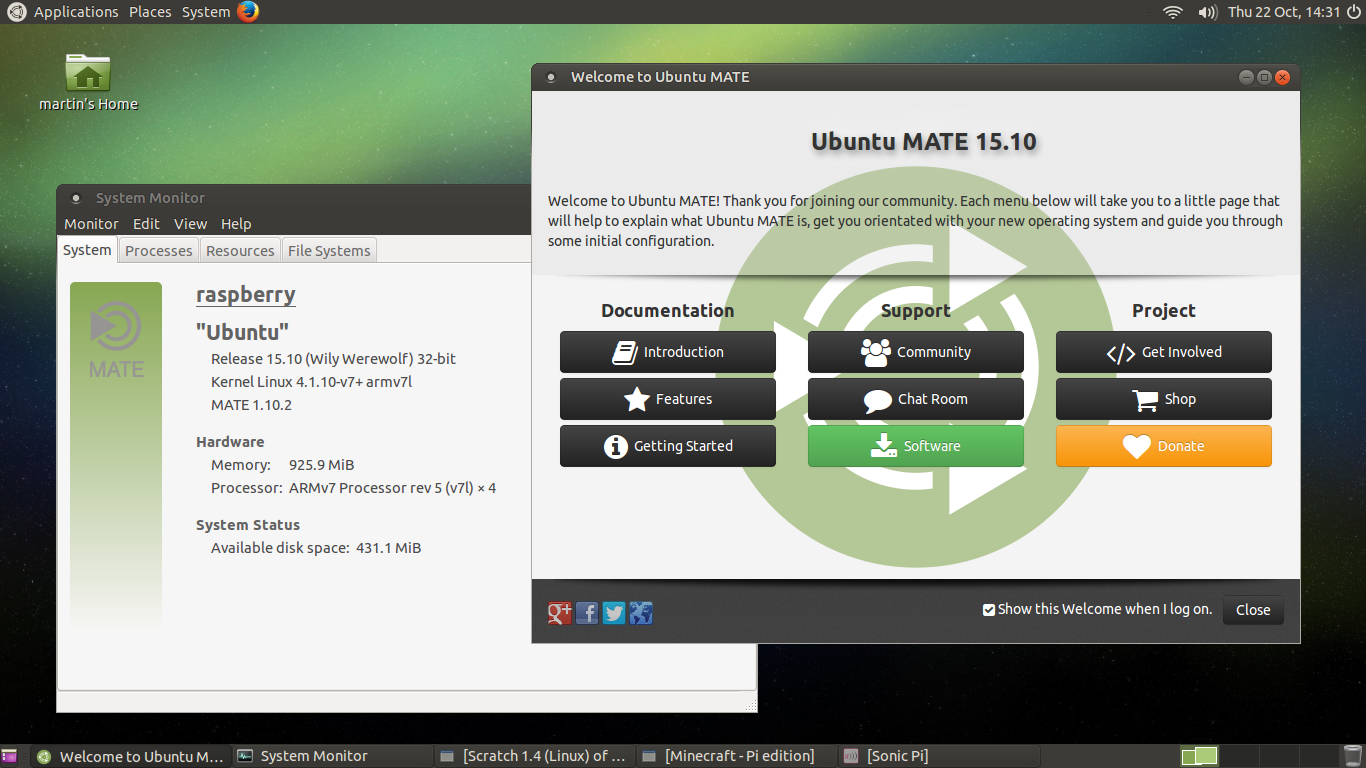
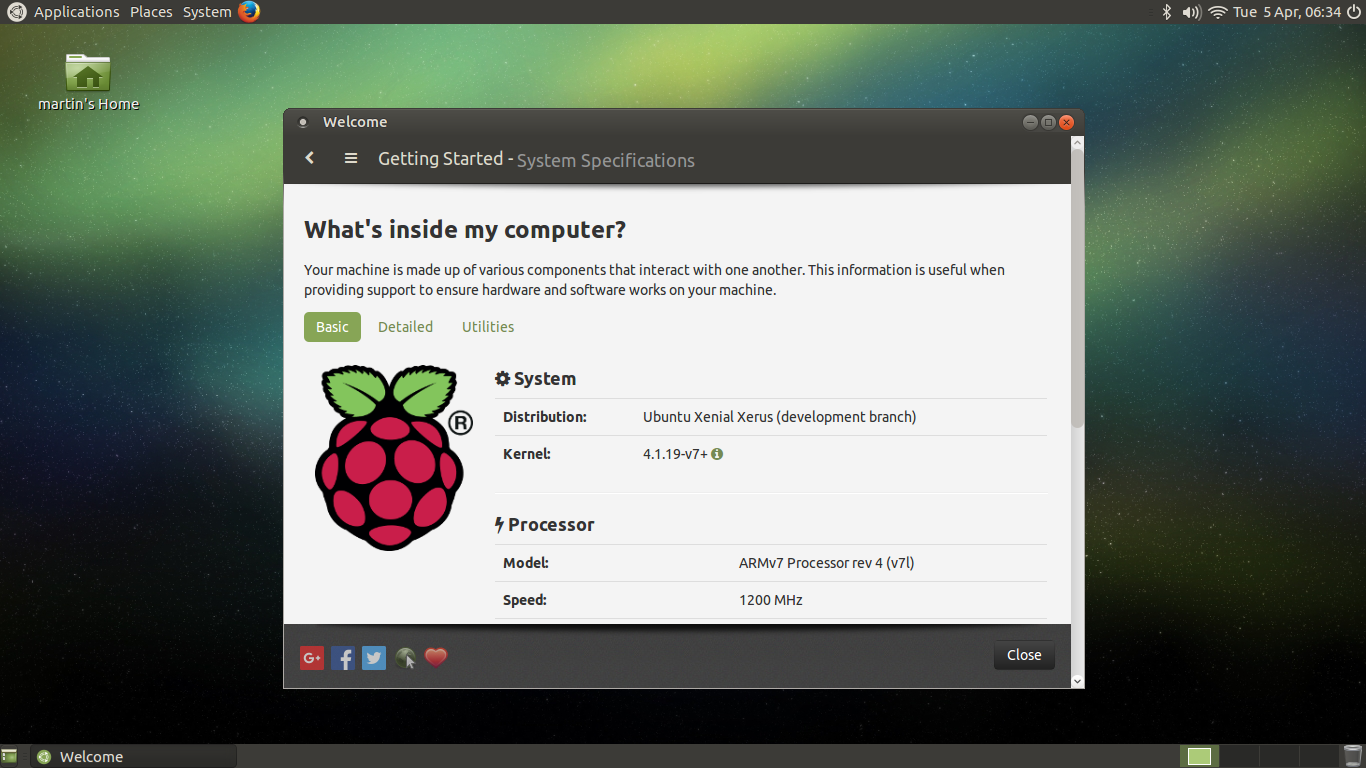
Update Raspberry Pi page.

diff --git a/pages/raspberry-pi.md b/pages/raspberry-pi.md
@@ -4,7 +4,7 @@
 .. date: 2015-04-21 23:01:09 UTC
 .. tags: Ubuntu,MATE,Raspberry Pi,Raspberry Pi 2,Raspberry Pi 3,download,armhf,arm64,ARMv7,ARMv8
 .. link: 
-.. description: Ubuntu MATE 15.10 for the Raspberry Pi 2 and Raspbbery Pi 3
+.. description: Ubuntu MATE 16.04 for the Raspberry Pi 2 and Raspbbery Pi 3
 .. type: text
 .. author: Martin Wimpress
 -->
@@ -24,13 +24,14 @@ LibreOffice, which in fact is a joy to use :-) But the microSDHC I/O
 throughput is a bottleneck so **we recommend that you use a Class 6 or
 Class 10 microSDHC** card.
 
-**The images support the integrated Wifi on the Raspberry Pi 3, but
-support for the integrated Raspberry Pi 3 Bluetooth is incomplete.
-We hope to have that sorted soon.**
-
 You'll need a microSD card which is 4GB or greater to fit the image.
 The file system can be resized to occupy the unallocated space of the
-microSD card, similar to Raspbian.
+microSD card, **on Ubuntu MATE 16.04 this can be done via Ubuntu MATE
+Welcome**.
+
+**Ubuntu MATE 16.04 has working Bluetooth and Wifi work on the Raspberry
+Pi 3**, but *Ubuntu MATE 15.10 only has working Wifi* for the Raspberry
+Pi 3.
 
 **NOTE! There are no predefined user accounts**. The first time you
 boot one of the desktop images it will run through a setup wizard where
@@ -40,7 +41,7 @@ configuration is complete, subsequent boots are much quicker.
 
 <div align="center">
   <img src="/gallery/Screenshots/09_RASPBERRY.png" /></a><br />
-  <b>Ubuntu MATE 15.10 running on the Raspberry Pi 2.</b>
+  <b>Ubuntu MATE 16.04 running on the Raspberry Pi 3.</b>
 </div>
 <br />
 
@@ -55,12 +56,12 @@ configuration is complete, subsequent boots are much quicker.
 
 ## Download
 
-A pre-built image of Ubuntu MATE 15.10.1 for the Raspberry Pi 2 and
-Raspberry Pi 3 is available via BitTorrent and direct download. If you
-can spare the bytes, please download via BitTorrent and leave the
-client open after your download is finished, so you can seed it back to
-others. *A web-seed capable client is recommended for fastest download
-speeds.*
+A pre-built images of Ubuntu MATE 15.10.3 and 16.04 Beta 2 for the
+Raspberry Pi 2 and Raspberry Pi 3 are available via BitTorrent and
+direct download. If you can spare the bytes, please download via
+BitTorrent and leave the client open after your download is finished,
+so you can seed it back to others. *A web-seed capable client is
+recommended for fastest download speeds.*
 
 Many thanks to [First Colo](http://www.first-colo.com) for contributing the
 hosting and bandwidth for the Ubuntu MATE downloads.
@@ -87,7 +88,7 @@ hosting and bandwidth for the Ubuntu MATE downloads.
       <a href="http://can.ubuntu-mate.net/raspberry-pi/ubuntu-mate-15.10.3-desktop-armhf-raspberry-pi-2.img.xz">
         <img src="/images/flags/Canada-Flag-128.png" alt="Ubuntu MATE 15.10.3 Raspberry Pi 2 and 3 Download" title="Ubuntu MATE 15.10.3 Raspberry Pi 2 and 3 Download" />
       </a>
-      <p>Ubuntu MATE 15.10.1 from Canadian mirror</p><p><b>Raspberry Pi 2 and Raspberry Pi 3</b></p>
+      <p>Ubuntu MATE 15.10.3 from Canadian mirror</p><p><b>Raspberry Pi 2 and Raspberry Pi 3</b></p>
     </div>
   </div>
   <div class="col-lg-3">
@@ -95,14 +96,50 @@ hosting and bandwidth for the Ubuntu MATE downloads.
       <a href="http://fra.ubuntu-mate.net/raspberry-pi/ubuntu-mate-15.10.3-desktop-armhf-raspberry-pi-2.img.xz">
         <img src="/images/flags/France-Flag-128.png" alt="Ubuntu MATE 15.10.3 Raspberry Pi 2 and 3 Download" title="Ubuntu MATE 15.10.3 Raspberry Pi 2 and 3 Download" />
       </a>
-      <p>Ubuntu MATE 15.10.1 from French mirror</p><p><b>Raspberry Pi 2 and Raspberry Pi 3</b></p>
+      <p>Ubuntu MATE 15.10.3 from French mirror</p><p><b>Raspberry Pi 2 and Raspberry Pi 3</b></p>
+    </div>
+  </div>
+</div>
+
+<div class="row">
+  <div class="col-lg-3">
+    <div class="well bs-component text-center">
+      <a href="https://ubuntu-mate.org/raspberry-pi/ubuntu-mate-16.04-beta2-desktop-armhf-raspberry-pi.img.xz.torrent">
+        <img src="/assets/img/misc/torrent.png" alt="Ubuntu MATE 15.10.3 Raspberry Pi 2 and 3 Torrent" title="Ubuntu MATE 16.04 Beta 2 Raspberry Pi 2 and 3 Torrent" />
+      </a>
+      <p>Ubuntu MATE 16.04 Beta 2 via BitTorrent</p><p><b>Raspberry Pi 2 and Raspberry Pi 3</b></p>
+    </div>
+  </div>
+  <div class="col-lg-3">
+    <div class="well bs-component text-center">
+      <a href="https://ubuntu-mate.r.worldssl.net/raspberry-pi/ubuntu-mate-16.04-beta2-desktop-armhf-raspberry-pi.img.xz">
+        <img src="/images/flags/European-Union-Flag-128.png" alt="Ubuntu MATE 15.10.1 Raspberry Pi 2 and 3 Download" title="Ubuntu MATE 16.04 Beta 2 Raspberry Pi 2 and 3 Download" />
+      </a>
+      <p>Ubuntu MATE 16.04 Beta 2 from European CDN</p><p><b>Raspberry Pi 2 and Raspberry Pi 3</b></p>
+    </div>
+  </div>
+  <div class="col-lg-3">
+    <div class="well bs-component text-center">
+      <a href="http://can.ubuntu-mate.net/raspberry-pi/ubuntu-mate-16.04-beta2-desktop-armhf-raspberry-pi.img.xz">
+        <img src="/images/flags/Canada-Flag-128.png" alt="Ubuntu MATE 15.10.3 Raspberry Pi 2 and 3 Download" title="Ubuntu MATE 16.04 Beta 2 Raspberry Pi 2 and 3 Download" />
+      </a>
+      <p>Ubuntu MATE 16.04 Beta 2 from Canadian mirror</p><p><b>Raspberry Pi 2 and Raspberry Pi 3</b></p>
+    </div>
+  </div>
+  <div class="col-lg-3">
+    <div class="well bs-component text-center">
+      <a href="http://fra.ubuntu-mate.net/raspberry-pi/ubuntu-mate-16.04-beta2-desktop-armhf-raspberry-pi.img.xz">
+        <img src="/images/flags/France-Flag-128.png" alt="Ubuntu MATE 15.10.3 Raspberry Pi 2 and 3 Download" title="Ubuntu MATE 16.04 Beta 2 Raspberry Pi 2 and 3 Download" />
+      </a>
+      <p>Ubuntu MATE 16.04 Beta 2 from French mirror</p><p><b>Raspberry Pi 2 and Raspberry Pi 3</b></p>
     </div>
   </div>
 </div>
 
 If you direct download the image please make sure the SHA256 hash matches:
 
[3 lines of base64/hex data omitted]
 
 ## Download tip
 
@@ -122,7 +159,7 @@ please visit the [donate page](/donate/).</p>
         </fieldset>
         <input type="hidden" name="cmd" value="_xclick">
         <input type="hidden" name="business" value="6282B4CZGVCB6">
-        <input type="hidden" name="item_name" value="Ubuntu MATE 15.10 Raspberry Pi 2 and 3 Download Tip">
+        <input type="hidden" name="item_name" value="Ubuntu MATE 16.04 Raspberry Pi 2 and 3 Download Tip">
         <input type="hidden" name="no_shipping" value="1">
         <input type="hidden" name="no_note" value="1">
         <input type="hidden" name="charset" value="UTF-8">
@@ -143,7 +180,7 @@ please visit the [donate page](/donate/).</p>
         </fieldset>
         <input type="hidden" name="cmd" value="_xclick">
         <input type="hidden" name="business" value="6282B4CZGVCB6">
-        <input type="hidden" name="item_name" value="Ubuntu MATE 15.10 Raspberry Pi 2 and 3 Download Tip">
+        <input type="hidden" name="item_name" value="Ubuntu MATE 16.04 Raspberry Pi 2 and 3 Download Tip">
         <input type="hidden" name="no_shipping" value="1">
         <input type="hidden" name="no_note" value="1">
         <input type="hidden" name="charset" value="UTF-8">
@@ -164,7 +201,7 @@ please visit the [donate page](/donate/).</p>
         </fieldset>
         <input type="hidden" name="cmd" value="_xclick">
         <input type="hidden" name="business" value="6282B4CZGVCB6">
-        <input type="hidden" name="item_name" value="Ubuntu MATE 15.10 Raspberry Pi 2 and 3 Download Tip">
+        <input type="hidden" name="item_name" value="Ubuntu MATE 16.04 Raspberry Pi 2 and 3 Download Tip">
         <input type="hidden" name="no_shipping" value="1">
         <input type="hidden" name="no_note" value="1">
         <input type="hidden" name="charset" value="UTF-8">
@@ -185,7 +222,7 @@ please visit the [donate page](/donate/).</p>
         </fieldset>
         <input type="hidden" name="cmd" value="_xclick">
         <input type="hidden" name="business" value="6282B4CZGVCB6">
-        <input type="hidden" name="item_name" value="Ubuntu MATE 15.10 Raspberry Pi 2 and 3 Download Tip">
+        <input type="hidden" name="item_name" value="Ubuntu MATE 16.04 Raspberry Pi 2 and 3 Download Tip">
         <input type="hidden" name="no_shipping" value="1">
         <input type="hidden" name="no_note" value="1">
         <input type="hidden" name="charset" value="UTF-8">
@@ -235,8 +272,17 @@ If you want to make a microSDHC using Windows we recommend:
 
 ## Re-size file system
 
-There are no utilities included for automatic file system re-sizing. However,
-it's not hard to do manually. Once booted:
+### Ubuntu MATE 16.04
+
+You can use Ubuntu MATE Welcome to resize to automatically resize the
+partitions to make full use of your microSHDC card capacity. Simply
+click the large **Raspberry PI Information** button on the Welcome
+screen, then the **Resize** button and then restart the Raspberry Pi.
+
+### Ubuntu MATE 15.10
+
+There are no utilities included for automatic file system re-sizing.
+However, it's not hard to do manually. Once booted:
 
     sudo fdisk /dev/mmcblk0
 
@@ -302,6 +348,19 @@ BitBucket.
   * [Spindle](https://github.com/RPi-Distro/spindle) - a tool to help spin distribution images
 
 ## Changes
+
+### 2016-04-05 - 16.04 beta 2 for Raspbery Pi 2 and Raspberry Pi 3
+
+  * Updated to Ubuntu MATE 16.04.
+  * Updated BlueZ 5.37 with patches to support the Raspberry Pi 3 integrated Bluetooth.
+  * Updated to Linux 4.1.19.
+  * Updated to `raspberrypi-firmware` 1.20160315-1.
+  * Updated to `omx-player` 0.3.7~git20160206~cb91001.
+  * Updated to `wiringpi` 2.32.
+  * Updated to `nuscratch` 20160115.
+  * Updated to `sonic-pi` 2.9.0.  
+  * Migrated configuration tweaks to `raspberrypi-general-mods` and `raspberrypi-sys-mods`.
+  * Experimental hardware accelerated OpenGL can be enabled, *if you know how* `;-)`
 
 ### 2016-02-27 - Ubuntu MATE 15.10.3 for Raspbery Pi 2 and Raspberry Pi 3
 
